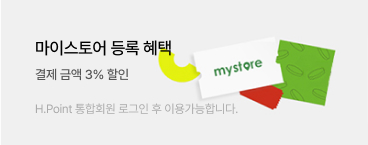
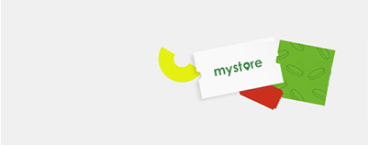
Add files via upload

Changed region(s): [[0.0897, 0.2759, 0.4783, 0.3862], [0.0897, 0.7172, 0.6576, 0.8], [0.0897, 0.469, 0.3587, 0.5517]]

diff --git a/styles/index.css b/styles/index.css
@@ -181,9 +181,9 @@ main .container .oggg_content li[class^=content] .txt p span {
 main .container_insta {background-color:#F9F9F9;
     padding:100px 0;
 }
-main .container .insta_wrap {background-color:yellow; width:100%;}
+main .container .insta_wrap {width:100%;}
 main .container .insta_wrap .insta_livart {position:relative;}
-main .container .insta_wrap .insta_livart .insta_title {background-color:aqua; text-align:center;}
+main .container .insta_wrap .insta_livart .insta_title {text-align:center;}
 main .container .insta_wrap .insta_livart .insta_title p:first-child {margin-bottom:15px;}
 main .container .insta_wrap .insta_livart .insta_title p {
     letter-spacing:-0.02em; line-height:1.5; color:#555;
@@ -202,7 +202,7 @@ main .container .insta_wrap .insta_livart .insta_content li a {}
 main .container .insta_wrap .insta_livart .insta_content li:hover .icon {display:inline-block;}
 main .container .insta_wrap .insta_livart .insta_content li .icon {
     padding:7px 10px; border-radius:15px; background-color:#fff; display:none;
-    position:absolute; top:22px; left:22px;
+    position:absolute; top:22px; left:18px;
 }
 main .container .insta_wrap .insta_livart .insta_content li .icon p {
     letter-spacing:-0.02em;
@@ -215,52 +215,96 @@ main .container .insta_wrap .insta_livart .scroll_bg {
 main .container .insta_wrap .insta_livart .scroll_bg .scrollbar {
     width:calc(100% / 5); height:100%; background-color:#000;
 }
-main .container .insta_wrap .insta_livart > a {}
+/* ===== */
+main .container .insta_wrap .insta_livart > a {position:absolute; top:55%; opacity:0.7;}
 main .container .insta_wrap .insta_livart > a img {}
-main .container .insta_wrap .insta_livart .prev_btn:hover img,
-main .container .insta_wrap .insta_livart .next_btn:hover img {box-shadow:0 0 10px rgba(0,0,0,0.2);}
-main .container .insta_wrap .insta_livart .prev_btn {}
+main .container .insta_wrap .insta_livart .prev_btn:hover,
+main .container .insta_wrap .insta_livart .next_btn:hover {opacity:1;}
+main .container .insta_wrap .insta_livart .prev_btn {left:150px;}
 main .container .insta_wrap .insta_livart .prev_btn img {}
-main .container .insta_wrap .insta_livart .next_btn {}
+main .container .insta_wrap .insta_livart .next_btn {right:150px;}
 main .container .insta_wrap .insta_livart .next_btn img {}
 /* =======================================================5행 공지사항 */
+main .container .notice_wrap {
+    padding:50px 0 70px;
+    display:flex; flex-flow:row nowrap; justify-content:space-between; align-items:center;
+}
 main .container .notice_wrap {}
-main .container .notice_wrap .notice {}
-main .container .notice_wrap .notice p {}
-main .container .notice_wrap .notice p a {}
-main .container .notice_wrap .notice p a img {}
+main .container .notice_wrap .notice {
+    width:400px; 
+}
+main .container .notice_wrap .notice > a {
+    display:block; padding-bottom:7px; border-bottom:1px solid #000;
+    ont-size:1.25rem; font-weight:600; letter-spacing:-0.02em;
+}
+main .container .notice_wrap .notice > a img {float:right;}
 main .container .notice_wrap .notice ul {}
-main .container .notice_wrap .notice ul li {}
-main .container .notice_wrap .notice ul li p {}
+main .container .notice_wrap .notice ul li {margin-top:14px;}
+main .container .notice_wrap .notice ul li:first-child {margin-top:20px;}
+main .container .notice_wrap .notice ul li a {display:flex; flex-flow:row nowrap; justify-content:space-between;}
+main .container .notice_wrap .notice ul li a p:first-child {
+    width:290px; overflow:hidden; 
+}
+main .container .notice_wrap .notice ul li a p {
+    font-size:0.94rem; line-height:1.3; letter-spacing:-0.02em; color:#555;
+    text-overflow:ellipsis; white-space:nowrap;
+}
 main .container .notice_wrap .notice_nav {}
-main .container .notice_wrap .notice_nav .n_nav_top {}
+main .container .notice_wrap .notice_nav div[class^=n_nav] a {
+    background-color:#F5F5F5; display:inline-block;
+    padding:5px 10px; margin-right:15px; border-radius:10px; 
+}
+main .container .notice_wrap .notice_nav div[class^=n_nav] span {
+    width:60px; text-align:center; display:inline-block; margin-right:10px;
+    position:relative; bottom:18px;
+}
+main .container .notice_wrap .notice_nav .n_nav_top {margin-bottom:15px;}
 main .container .notice_wrap .notice_nav .n_nav_top a {}
 main .container .notice_wrap .notice_nav .n_nav_top a img {}
+main .container .notice_wrap .notice_nav .n_nav_top a span {}
 main .container .notice_wrap .notice_nav .n_nav_bottom {}
 main .container .notice_wrap .notice_nav .n_nav_bottom a {}
 main .container .notice_wrap .notice_nav .n_nav_bottom a img {}
-main .container .notice_wrap .mystore_bnr {}
-main .container .notice_wrap .mystore_bnr .img_bg {}
-main .container .notice_wrap .mystore_bnr .img_bg p {}
-main .container .notice_wrap .mystore_bnr .img_bg p em {}
-main .container .notice_wrap .mystore_bnr .img_bg p span {}
+main .container .notice_wrap .mystore_bnr {
+    background-image:url(../images/my_store_bnr.jpg);
+    width:367px; height:145px; border-radius:5px;
+}
+main .container .notice_wrap .mystore_bnr .img_bg {position:relative; left:35px; top:38px;}
+main .container .notice_wrap .mystore_bnr .img_bg p {
+    font-weight:500; letter-spacing:-0.02em; margin-bottom:8px;
+}
+main .container .notice_wrap .mystore_bnr .img_bg p:last-child {margin:24px 0 0;}
+main .container .notice_wrap .mystore_bnr .img_bg p em {
+    font-size:1.06rem;}
+main .container .notice_wrap .mystore_bnr .img_bg p span {
+    color:#aaa; font-size:0.75rem; font-weight:400;
+}
 /* =======================================================footer */
-main .container .footer_wrap {}
-main .container .footer_wrap .f_left {}
-main .container .footer_wrap .f_left .f_top {}
-main .container .footer_wrap .f_left .f_top li {}
-main .container .footer_wrap .f_left .f_top li a {}
-main .container .footer_wrap .f_left address {}
-main .container .footer_wrap .f_left address .call {}
-main .container .footer_wrap .f_left address .call p {}
-main .container .footer_wrap .f_left address .call p ul {}
-main .container .footer_wrap .f_left address .call p ul li {}
-main .container .footer_wrap .f_left address .call p ul li {}
-main .container .footer_wrap .f_left address .address_copy {}
-main .container .footer_wrap .f_left address .address_copy p {}
-main .container .footer_wrap .f_right {}
-main .container .footer_wrap .f_right .family_site {}
-main .container .footer_wrap .f_right .family_site a {}
-main .container .footer_wrap .f_right .family_site a img {}
-main .container .footer_wrap .f_right > a {}
-main .container .footer_wrap .f_right > a img {}
+footer .container {width:100%; background-color:#02597d;}
+footer .container .footer_wrap {
+    display:flex; flex-flow:row nowrap; justify-content:space-between;
+    width:1400px; margin:0 auto; padding:50px 0;
+}
+footer .container .footer_wrap * {color:#fff;}
+footer .container .footer_wrap .f_left {}
+footer .container .footer_wrap .f_left .f_top {margin-bottom:25px;}
+footer .container .footer_wrap .f_left .f_top li {display:inline-block; margin-right:20px; }
+footer .container .footer_wrap .f_left .f_top li:last-child {margin:0px; }
+footer .container .footer_wrap .f_left .f_top li a {font-size:0.88rem; letter-spacing:-0.02em;}
+footer .container .footer_wrap .f_left address {}
+footer .container .footer_wrap .f_left address .call {}
+footer .container .footer_wrap .f_left address .call p {font-size:1.25rem; font-weight:600; letter-spacing:-0.02em; margin-bottom:25px;}
+footer .container .footer_wrap .f_left address .call ul {display:flex; margin-bottom:10px;}
+footer .container .footer_wrap .f_left address .call ul li {font-weight:500; letter-spacing:-0.02em;}
+footer .container .footer_wrap .f_left address .call ul li:last-child {margin-left:30px;}
+footer .container .footer_wrap .f_left address .address_copy {margin-bottom:25px;}
+footer .container .footer_wrap .f_left address .address_copy p {
+    font-size:0.88rem; letter-spacing:-0.02em; line-height:1.5; 
+}
+footer .container .footer_wrap .f_left address .address_copy p:last-child {margin-top:25px;}
+footer .container .footer_wrap .f_right {display:flex; flex-flow:column nowrap; text-align:right;}
+footer .container .footer_wrap .f_right .family_site {padding:5px 10px 2px; background-color:#fff;}
+footer .container .footer_wrap .f_right .family_site a {color:#02597d; display:flex; justify-content:space-between;}
+footer .container .footer_wrap .f_right .family_site a img {position:relative; bottom:2px;}
+footer .container .footer_wrap .f_right > a {margin-top:25px;}
+footer .container .footer_wrap .f_right > a img {}

diff --git a/index.html b/index.html
@@ -269,8 +269,8 @@
                             </div>
                         </li>
                     </ul>
-                    <a href="#"><img src="./images/prev_btn.svg" alt=""></a>
-                    <a href="#"><img src="./images/next_btn.svg" alt=""></a>
+                    <a href="#" class="prev_btn"><img src="./images/prev_btn.svg" alt=""></a>
+                    <a href="#" class="next_btn"><img src="./images/next_btn.svg" alt=""></a>
                     <div class="scroll_bg">
                         <div class="scrollbar"></div>
                     </div>
@@ -281,38 +281,47 @@
         <div class="container"> <!-- 풀너비 -->
             <div class="contents notice_wrap"> <!-- 컨텐츠너비 -->
                 <div class="notice">
-                    <p><a href="#">공지사항<img src="./images/arrow_right.png" alt=""></a></p>
+                    <a href="#">공지사항<img src="./images/arrow_right.png" alt=""></a>
                     <ul>
                         <li>
-                            <p>[발표] 11월 베스트 포토리뷰 당첨자 안내</p>
-                            <p>2024.12.11</p>
+                            <a href="#">
+                                <p>[발표] 11월 베스트 포토리뷰 당첨자 안내</p>
+                                <p>2024.12.11</p>
+                            </a>
                         </li>
                         <li>
-                            <p>[발표] 창립기념 경품 당첨자 안내</p>
-                            <p>2024.11.12</p>
+                            <a href="#">
+                                <p>[발표] 창립기념 경품 당첨자 안내</p>
+                                <p>2024.11.12</p>
+                            </a>
                         </li>
                         <li>
-                            <p>[발표] 홈쇼핑 10월 광클절 기간 경품 안내 이벤트 당첨자 발표</p>
-                            <p>2024.11.10</p>
+                            <a href="#">
+                                <p>[발표] 홈쇼핑 10월 광클절 기간 경품 안내 이벤트 당첨자 발표</p>
+                                <p>2024.11.10</p>
+                            </a>
                         </li>
                         <li>
-                            <p>[발표] 10월 베스트 포토리뷰 당첨자 안내</p>
-                            <p>2024.11.01</p>
+                            <a href="#">
+                                <p>[발표] 10월 베스트 포토리뷰 당첨자 안내</p>
+                                <p>2024.11.01</p>
+                            </a>
                         </li>
                     </ul>
                 </div>
                 <div class=notice_nav>
                     <div class="n_nav_top">
-                        <a href="#"><img src="./images/notice_inquiry.png" alt="">상품문의</a>
-                        <a href="#"><img src="./images/notice_delivery.png" alt="">배송문의</a>
-                        <a href="#"><img src="./images/notice_as.png" alt="">A/S예약</a>
+                        <a href="#"><img src="./images/notice_inquiry.png" alt=""><span>상품문의</span></a>
+                        <a href="#"><img src="./images/notice_delivery.png" alt=""><span>배송문의</span></a>
+                        <a href="#"><img src="./images/notice_as.png" alt=""><span>A/S예약</span></a>
                     </div>
                     <div class="n_nav_bottom">
-                        <a href="#"><img src="./images/notice_faq.png" alt="">FAQ</a>
-                        <a href="#"><img src="./images/notice_large_purchase.png" alt="">대량구매</a>
-                        <a href="#"><img src="./images/notice_custom_pay.png" alt="">맞춤결제</a>
+                        <a href="#"><img src="./images/notice_faq.png" alt=""><span>FAQ</span></a>
+                        <a href="#"><img src="./images/notice_large_purchase.png" alt=""><span>대량구매</span></a>
+                        <a href="#"><img src="./images/notice_custom_pay.png" alt=""><span>맞춤결제</span></a>
                     </div>
                 </div>
+
                 <div class="mystore_bnr">
                     <div class="img_bg">
                     <p><em>마이스토어 등록 혜택</em></p>
